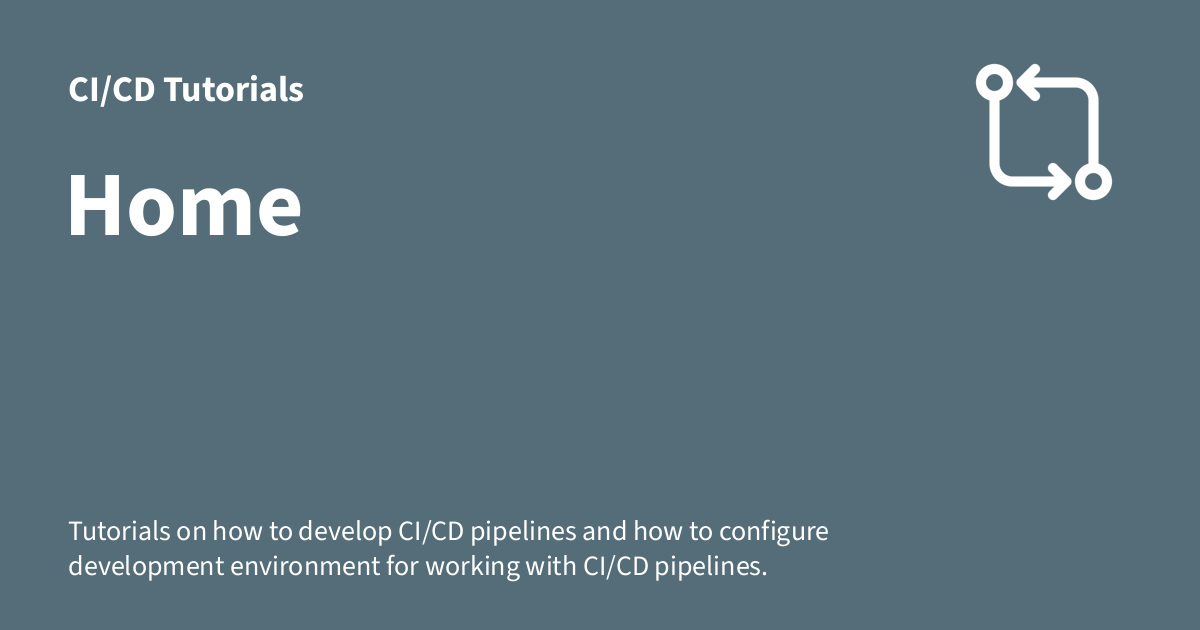
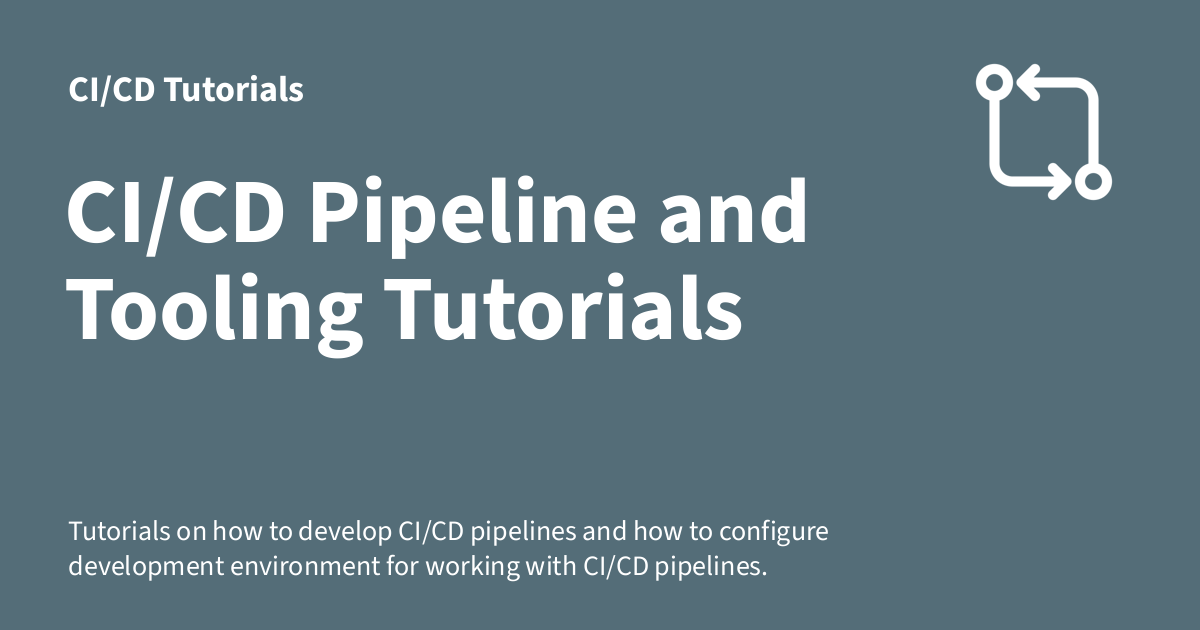
Deploying to gh-pages from  @ ebab970db27212542d8ebd83b40e21303dbbaa19 🚀

Changed region(s): [[0.0617, 0.2714, 0.6783, 0.573]]

diff --git a/index.html b/index.html
@@ -22,7 +22,7 @@
     
     
       
-        <title>CI/CD Tutorials</title>
+        <title>CI/CD Pipeline and Tooling Tutorials - CI/CD Tutorials</title>
       
     
     
@@ -149,7 +149,7 @@
         <div class="md-header__topic" data-md-component="header-topic">
           <span class="md-ellipsis">
             
-              Home
+              CI/CD Pipeline and Tooling Tutorials
             
           </span>
         </div>
